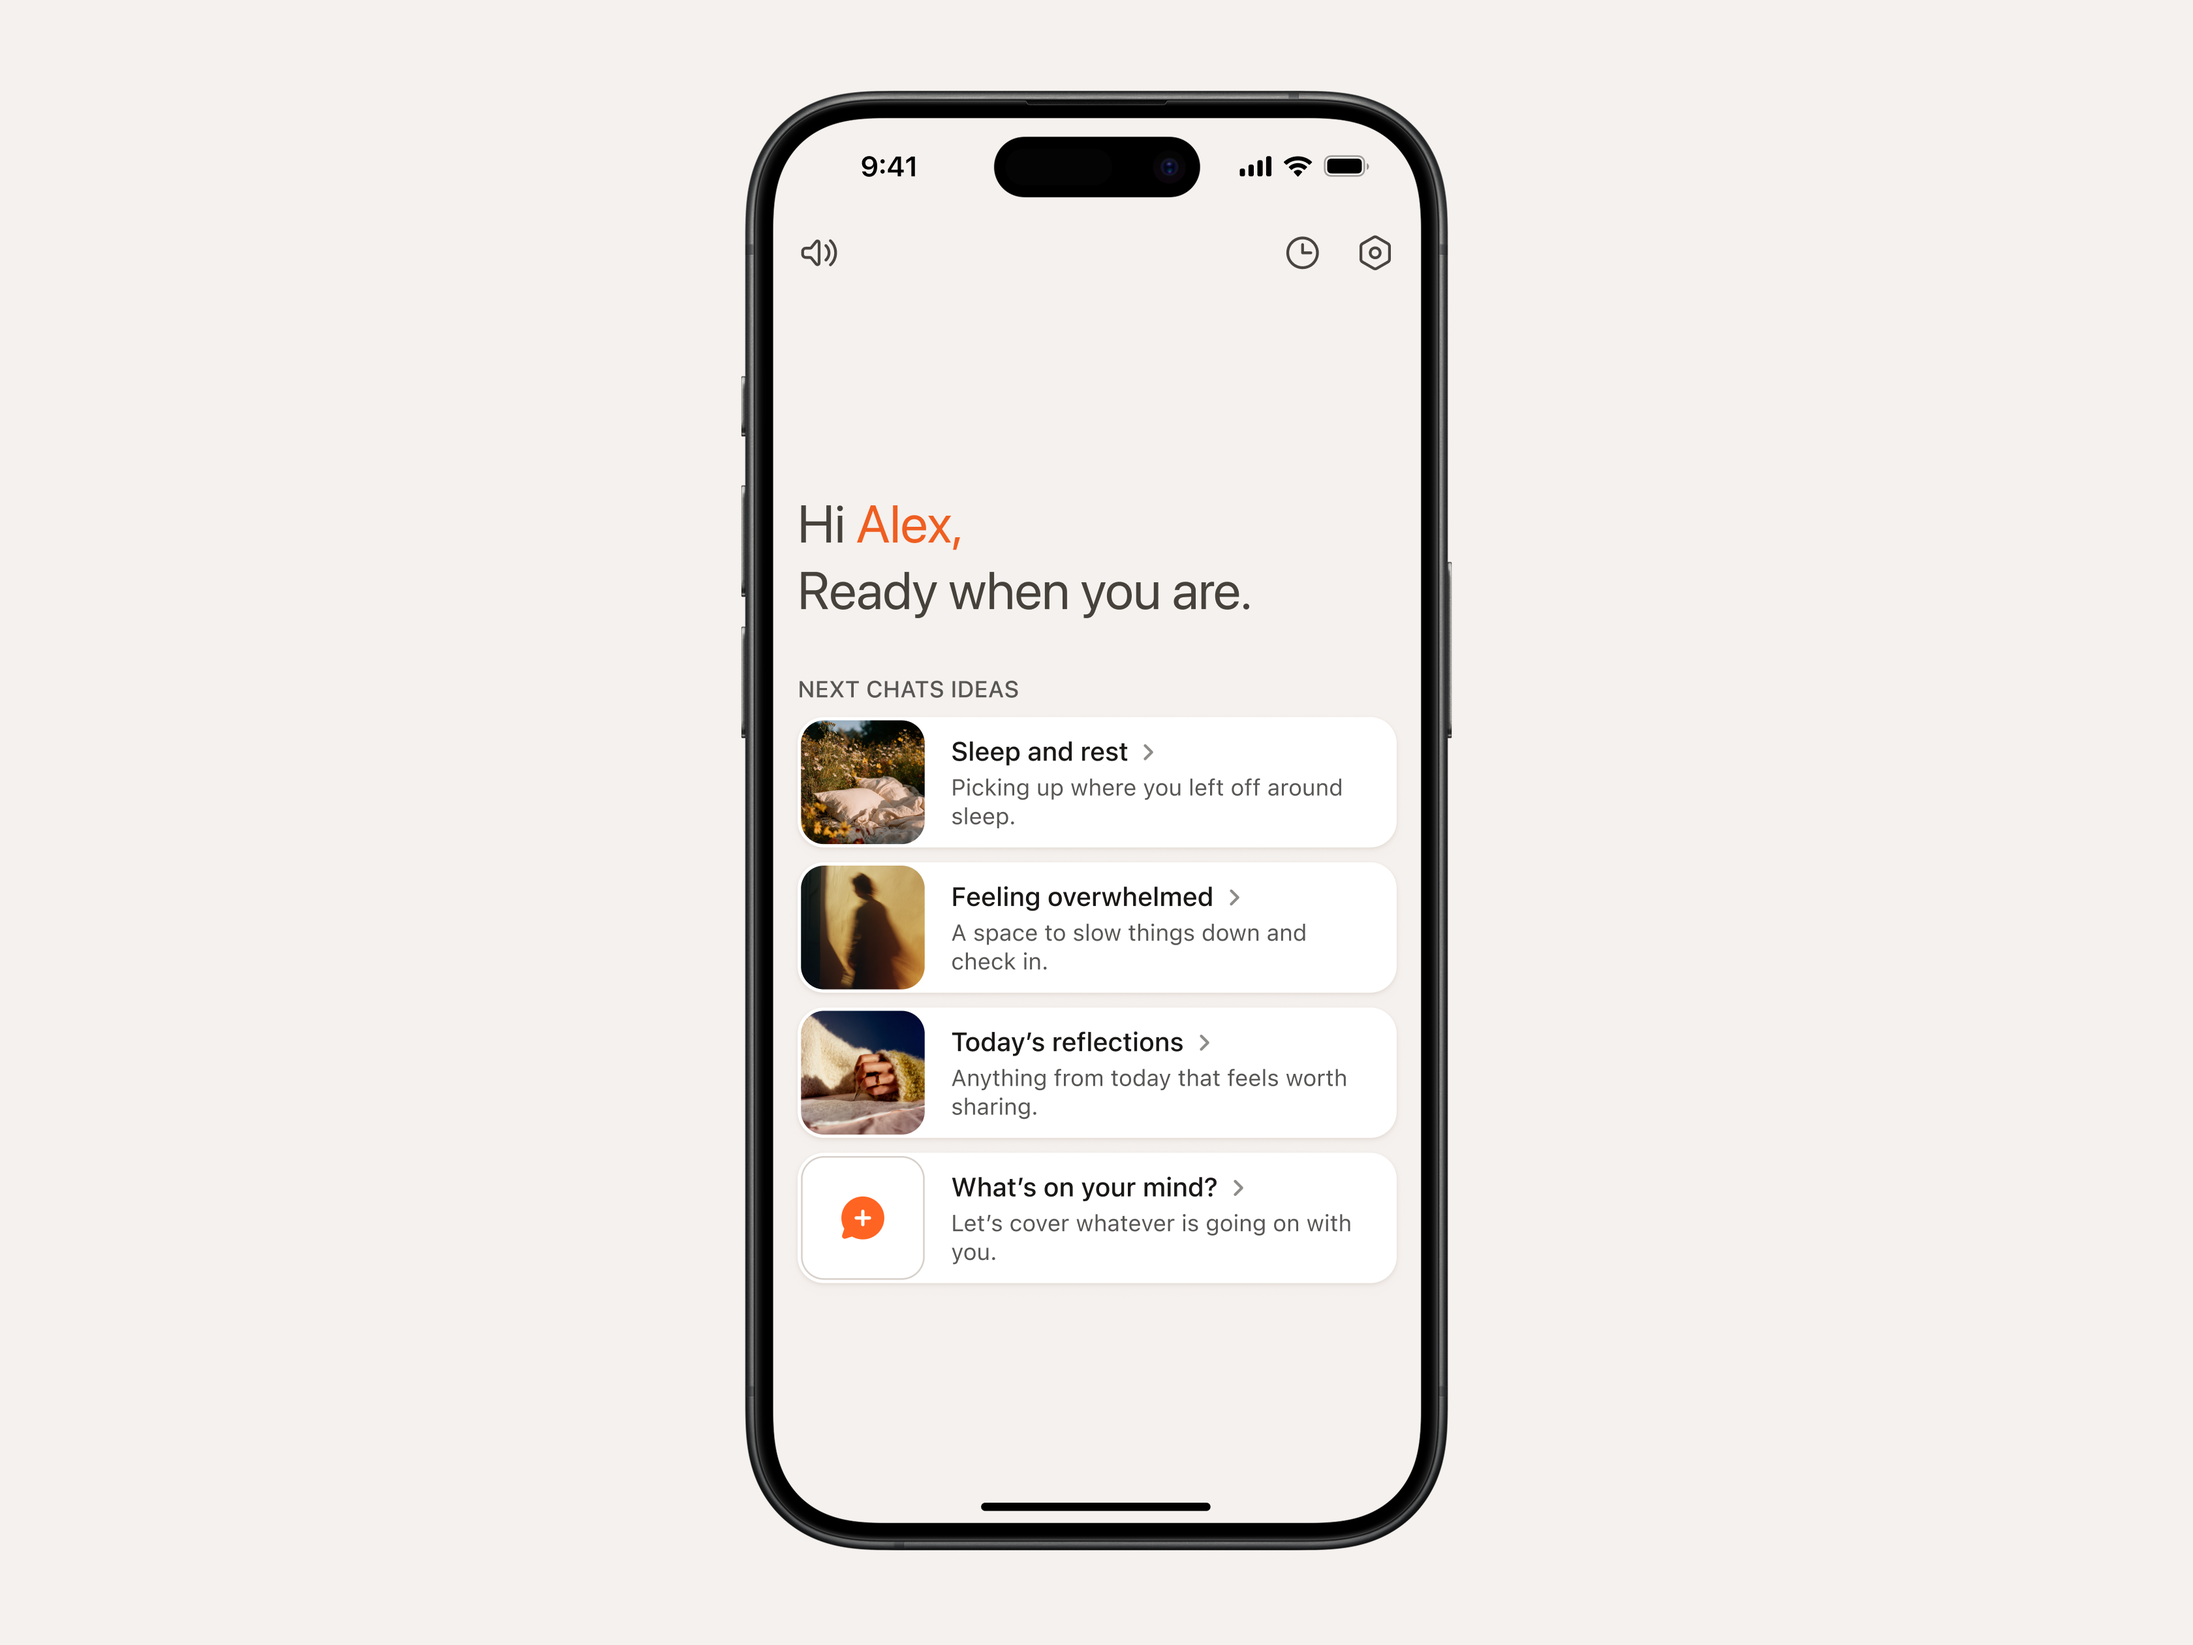
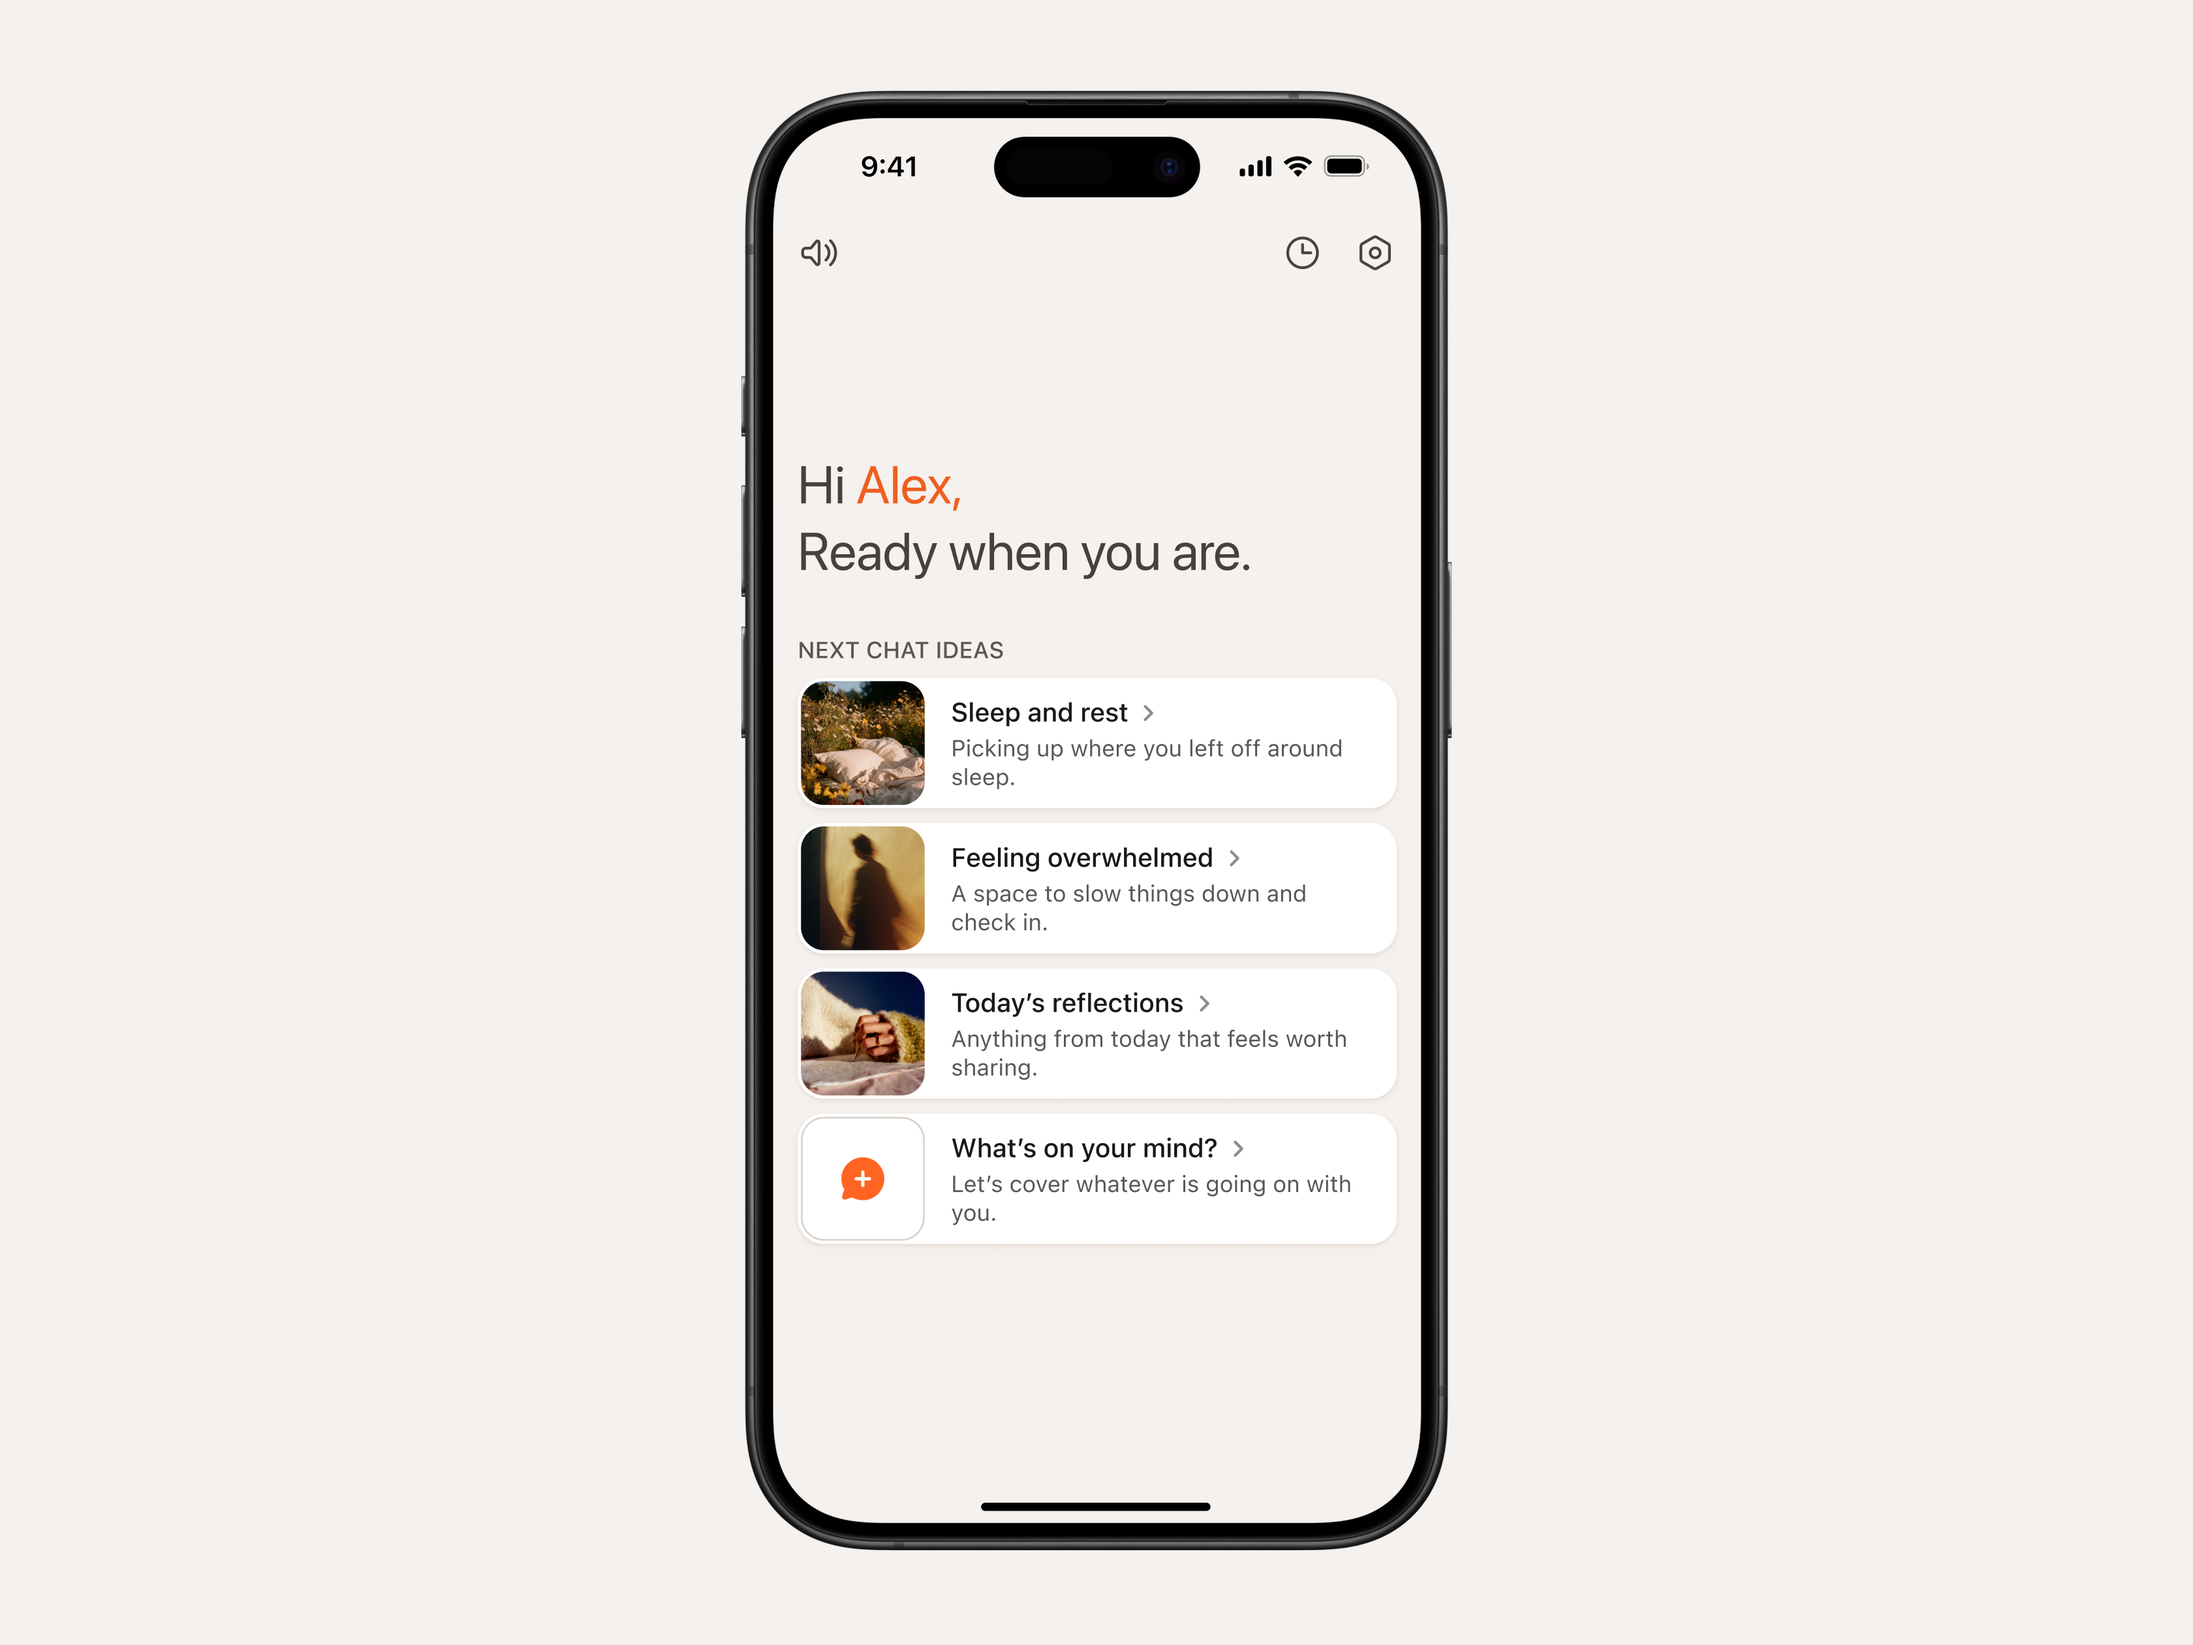
content: tighten Voiced takeaway copy + update section images

Changed region(s): [[0.3438, 0.2786, 0.625, 0.7738]]

diff --git a/components/voiced-case-study.tsx b/components/voiced-case-study.tsx
@@ -345,7 +345,7 @@ export function VoicedCaseStudy() {
           Voiced was a lesson in designing under early-company ambiguity: shipping the first product quickly, making it credible enough for investor and market signal, then improving the core conversation loop through product judgment and measurable iteration.
         </p>
         <p>
-          The most important work was not simply designing the app&apos;s screens. It was recognizing when a planned feature was not the highest-leverage problem, helping redirect the team toward the core conversation experience, and then extending that work into continuity and personalization experiments that changed how users came back.
+          The most important work was recognizing when a planned feature was not the highest-leverage problem, helping redirect the team toward the core conversation experience, and then extending that work into continuity and personalization experiments that changed how users came back.
         </p>
       </TextSection>
       </Reveal>
